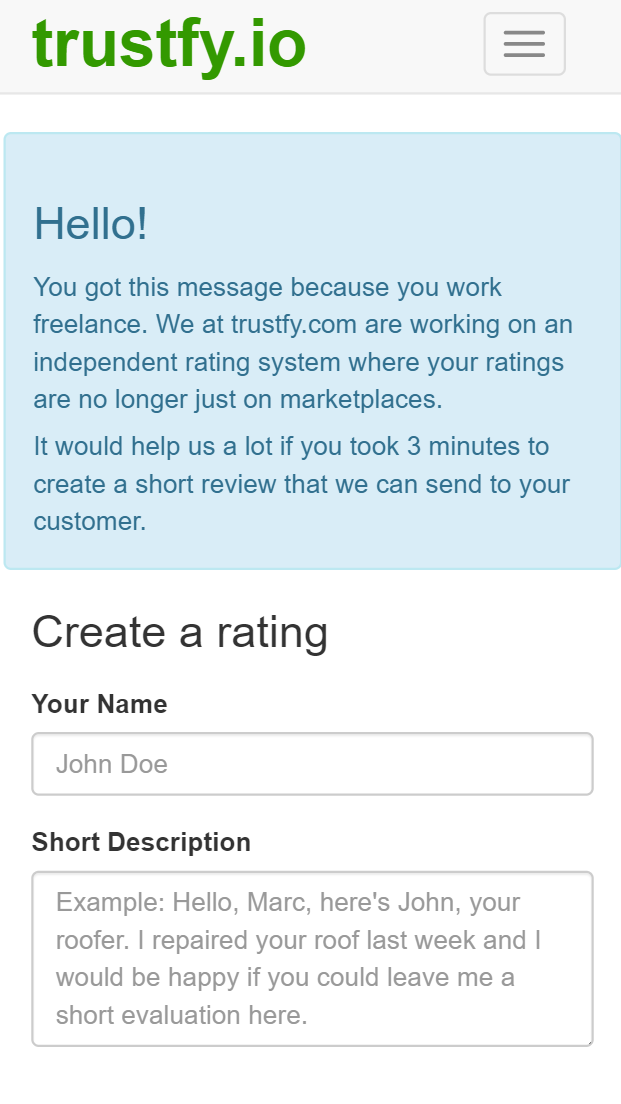
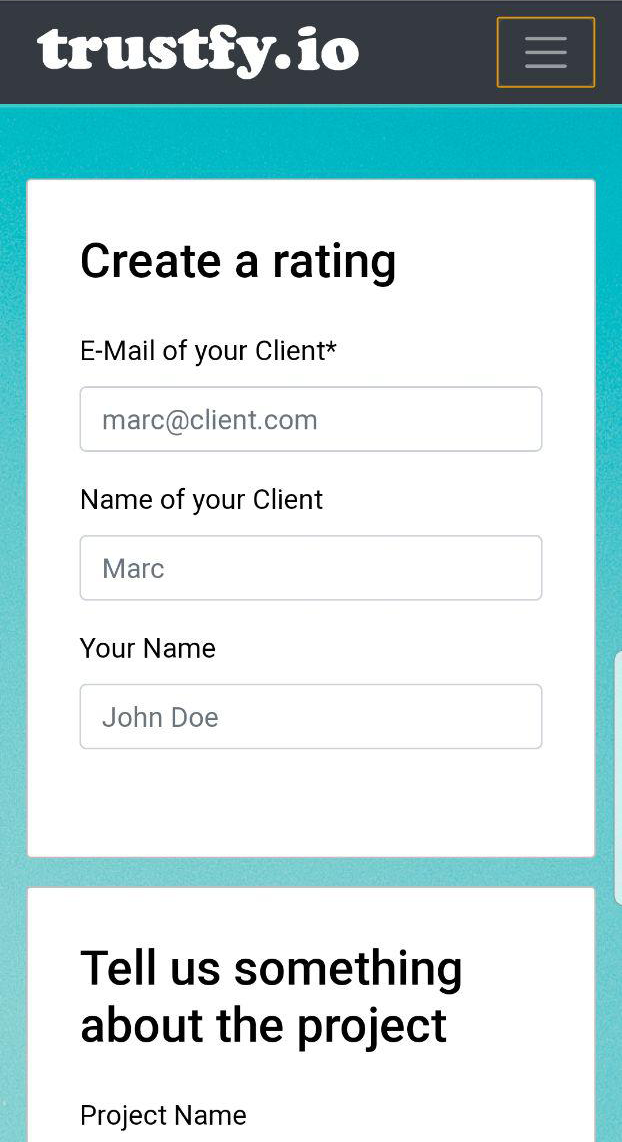
trustfy style

diff --git a/public/css/new-age.css b/public/css/new-age.css
@@ -326,8 +326,8 @@ section.features .feature-item i {
   font-size: 80px;
   display: block;
   margin-bottom: 15px;
-  background: -webkit-gradient(linear, right top, left top, from(#336633), to(#336633));
-  background: linear-gradient(to left, #336633, #336633);
+  background: -webkit-gradient(linear, right top, left top, from(#009900), to(#009900));
+  background: linear-gradient(to left, #009900, #009900);
   -webkit-background-clip: text;
   -webkit-text-fill-color: transparent;
 }

diff --git a/resources/views/frontend/master-trustfy-homepage.blade.php b/resources/views/frontend/master-trustfy-homepage.blade.php
@@ -127,7 +127,7 @@
         <div class="row">
             <div class="col-lg-4 my-auto">
                 <div class="device-container">
-                    <div class="device-mockup iphone6_plus portrait white">
+                    <div class="device-mockup iphone6_plus portrait black">
                         <div class="device">
                             <div class="screen">
                                 <!-- Demo image for screen mockup, you can put an image here, some HTML, an animation, video, or anything else! -->

diff --git a/resources/views/emails/rating.blade.php b/resources/views/emails/rating.blade.php
@@ -40,7 +40,7 @@
             </p>
                 <br>
                 <p>
-                     <a style="color: #1e8033;"  href="http://mvp.dev-basti.de/open-rating?hash={{$rating->session}}">Link to rate</a>
+                     <a style="color: #1e8033;"  href="https://www.trustfy.io/open-rating?hash={{$rating->session}}">Link to rate</a>
                 </p>
 
             </span>
